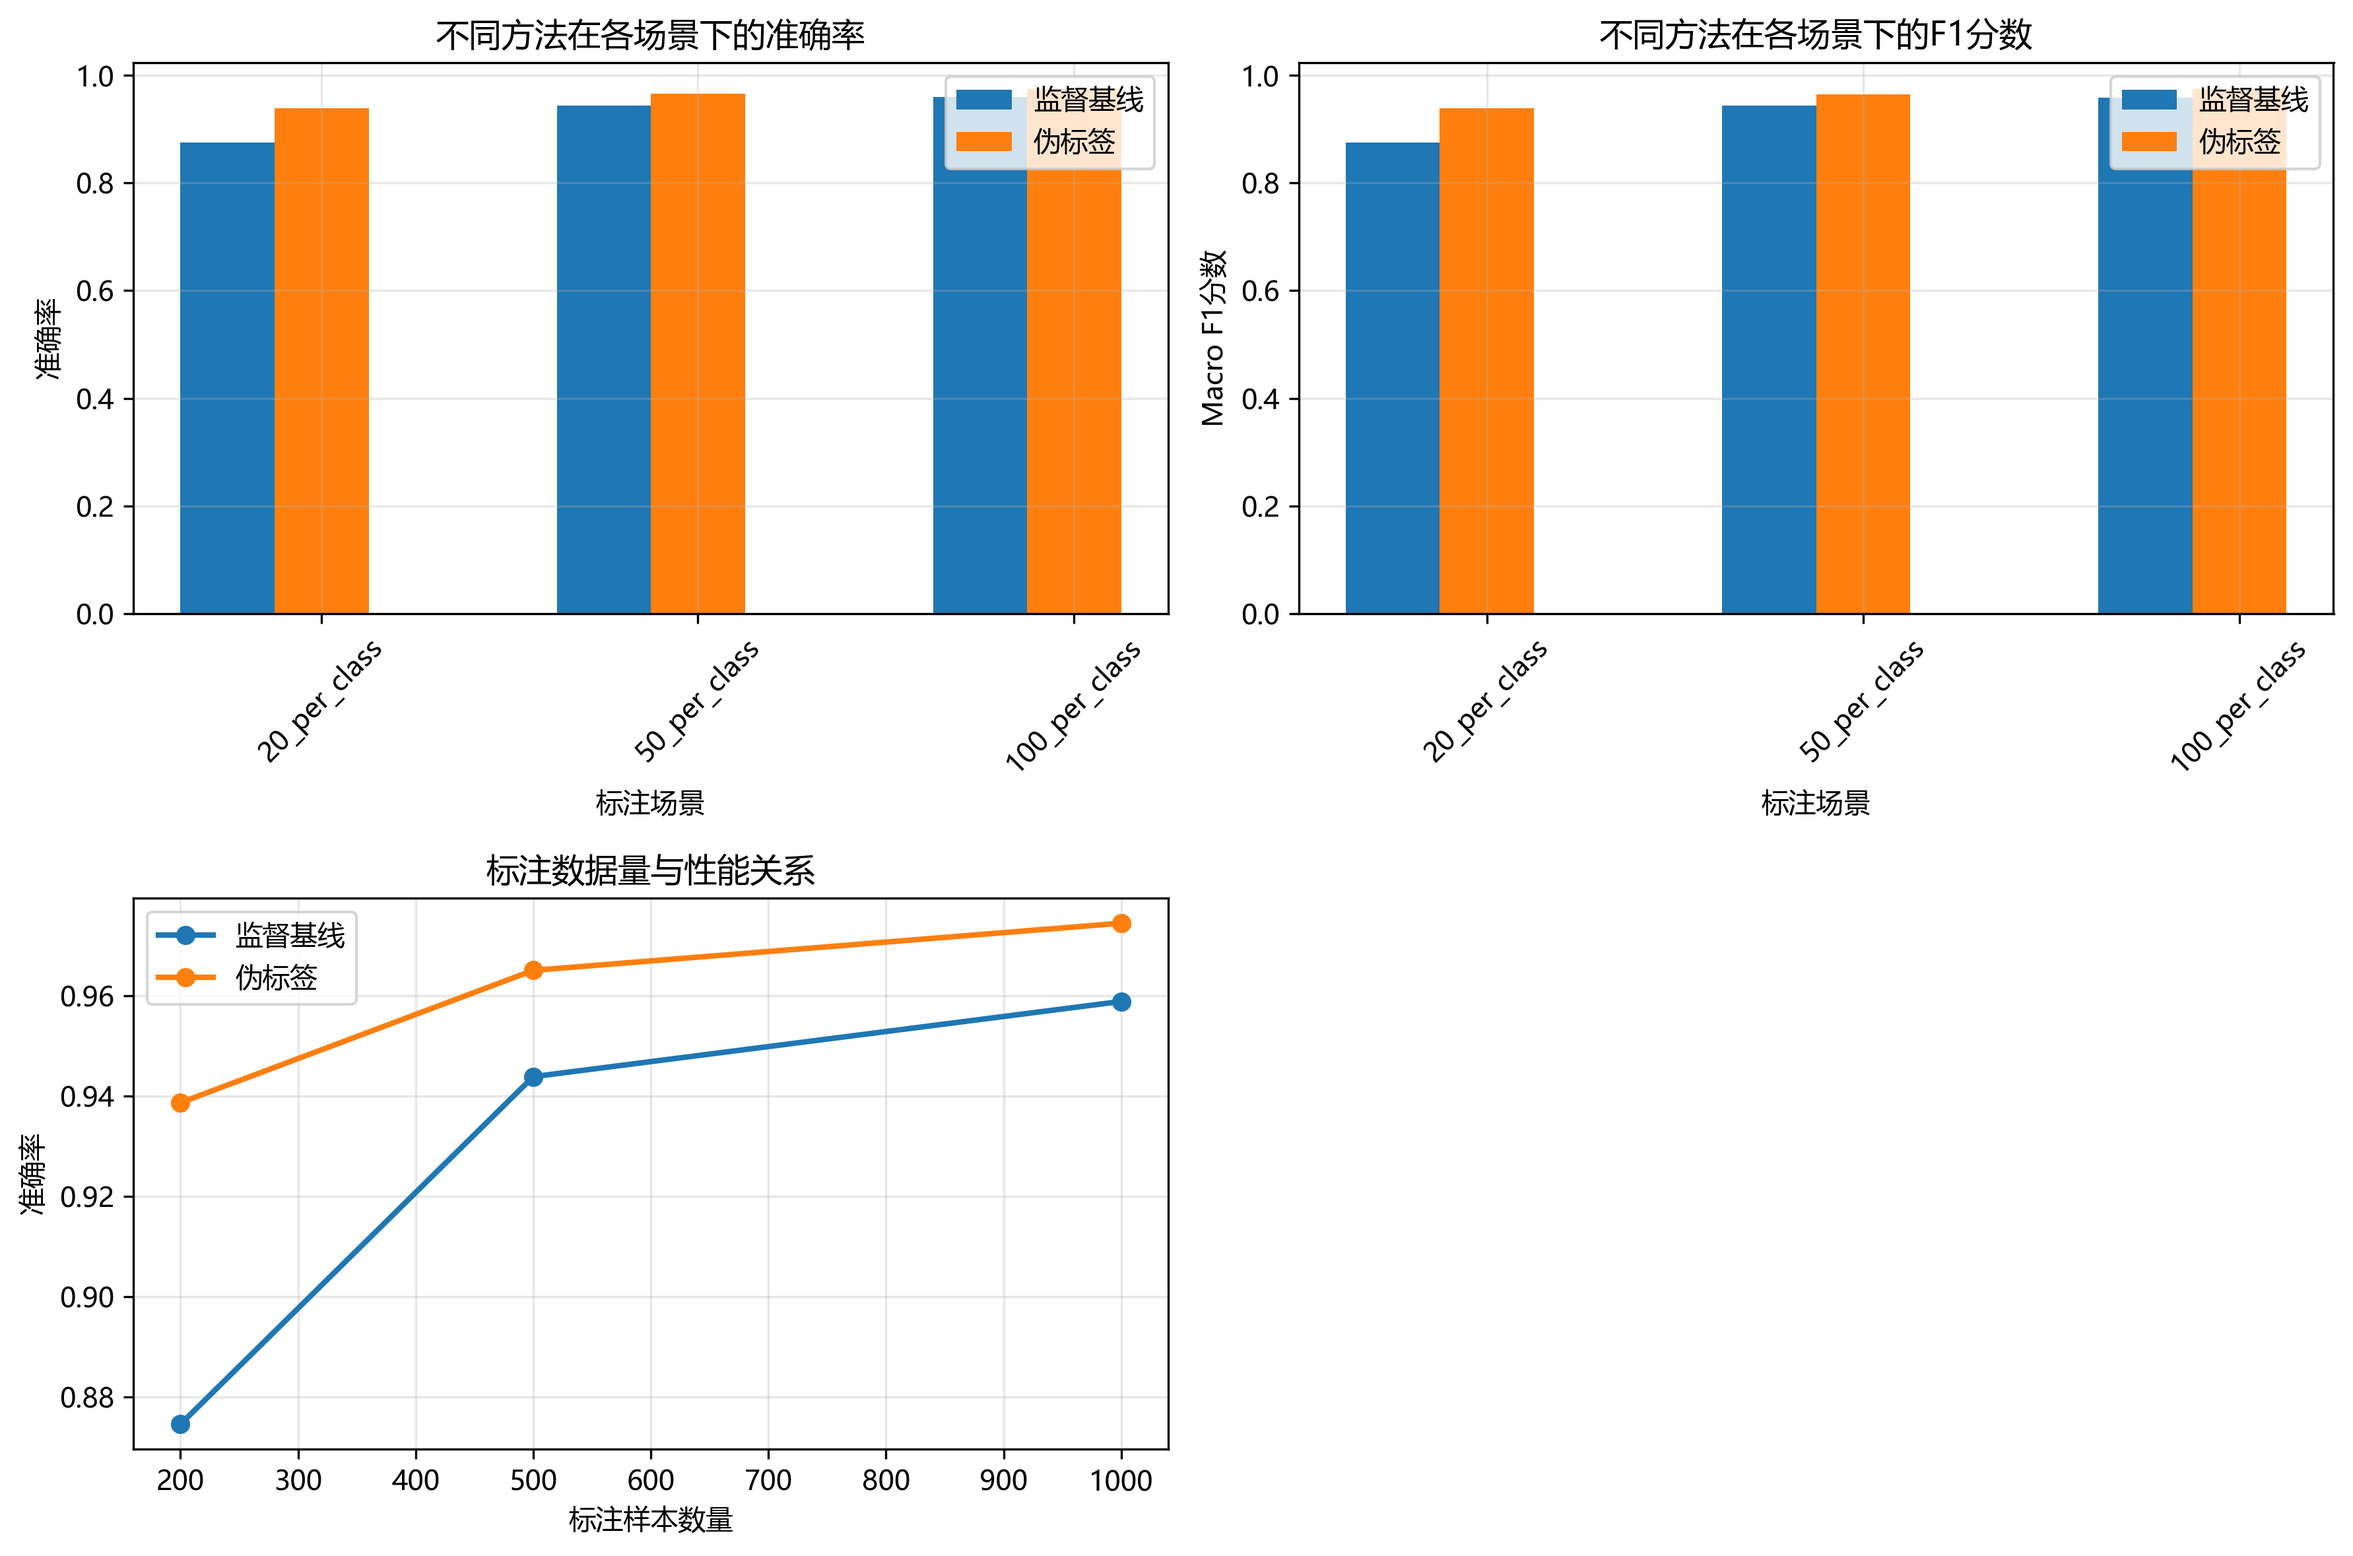
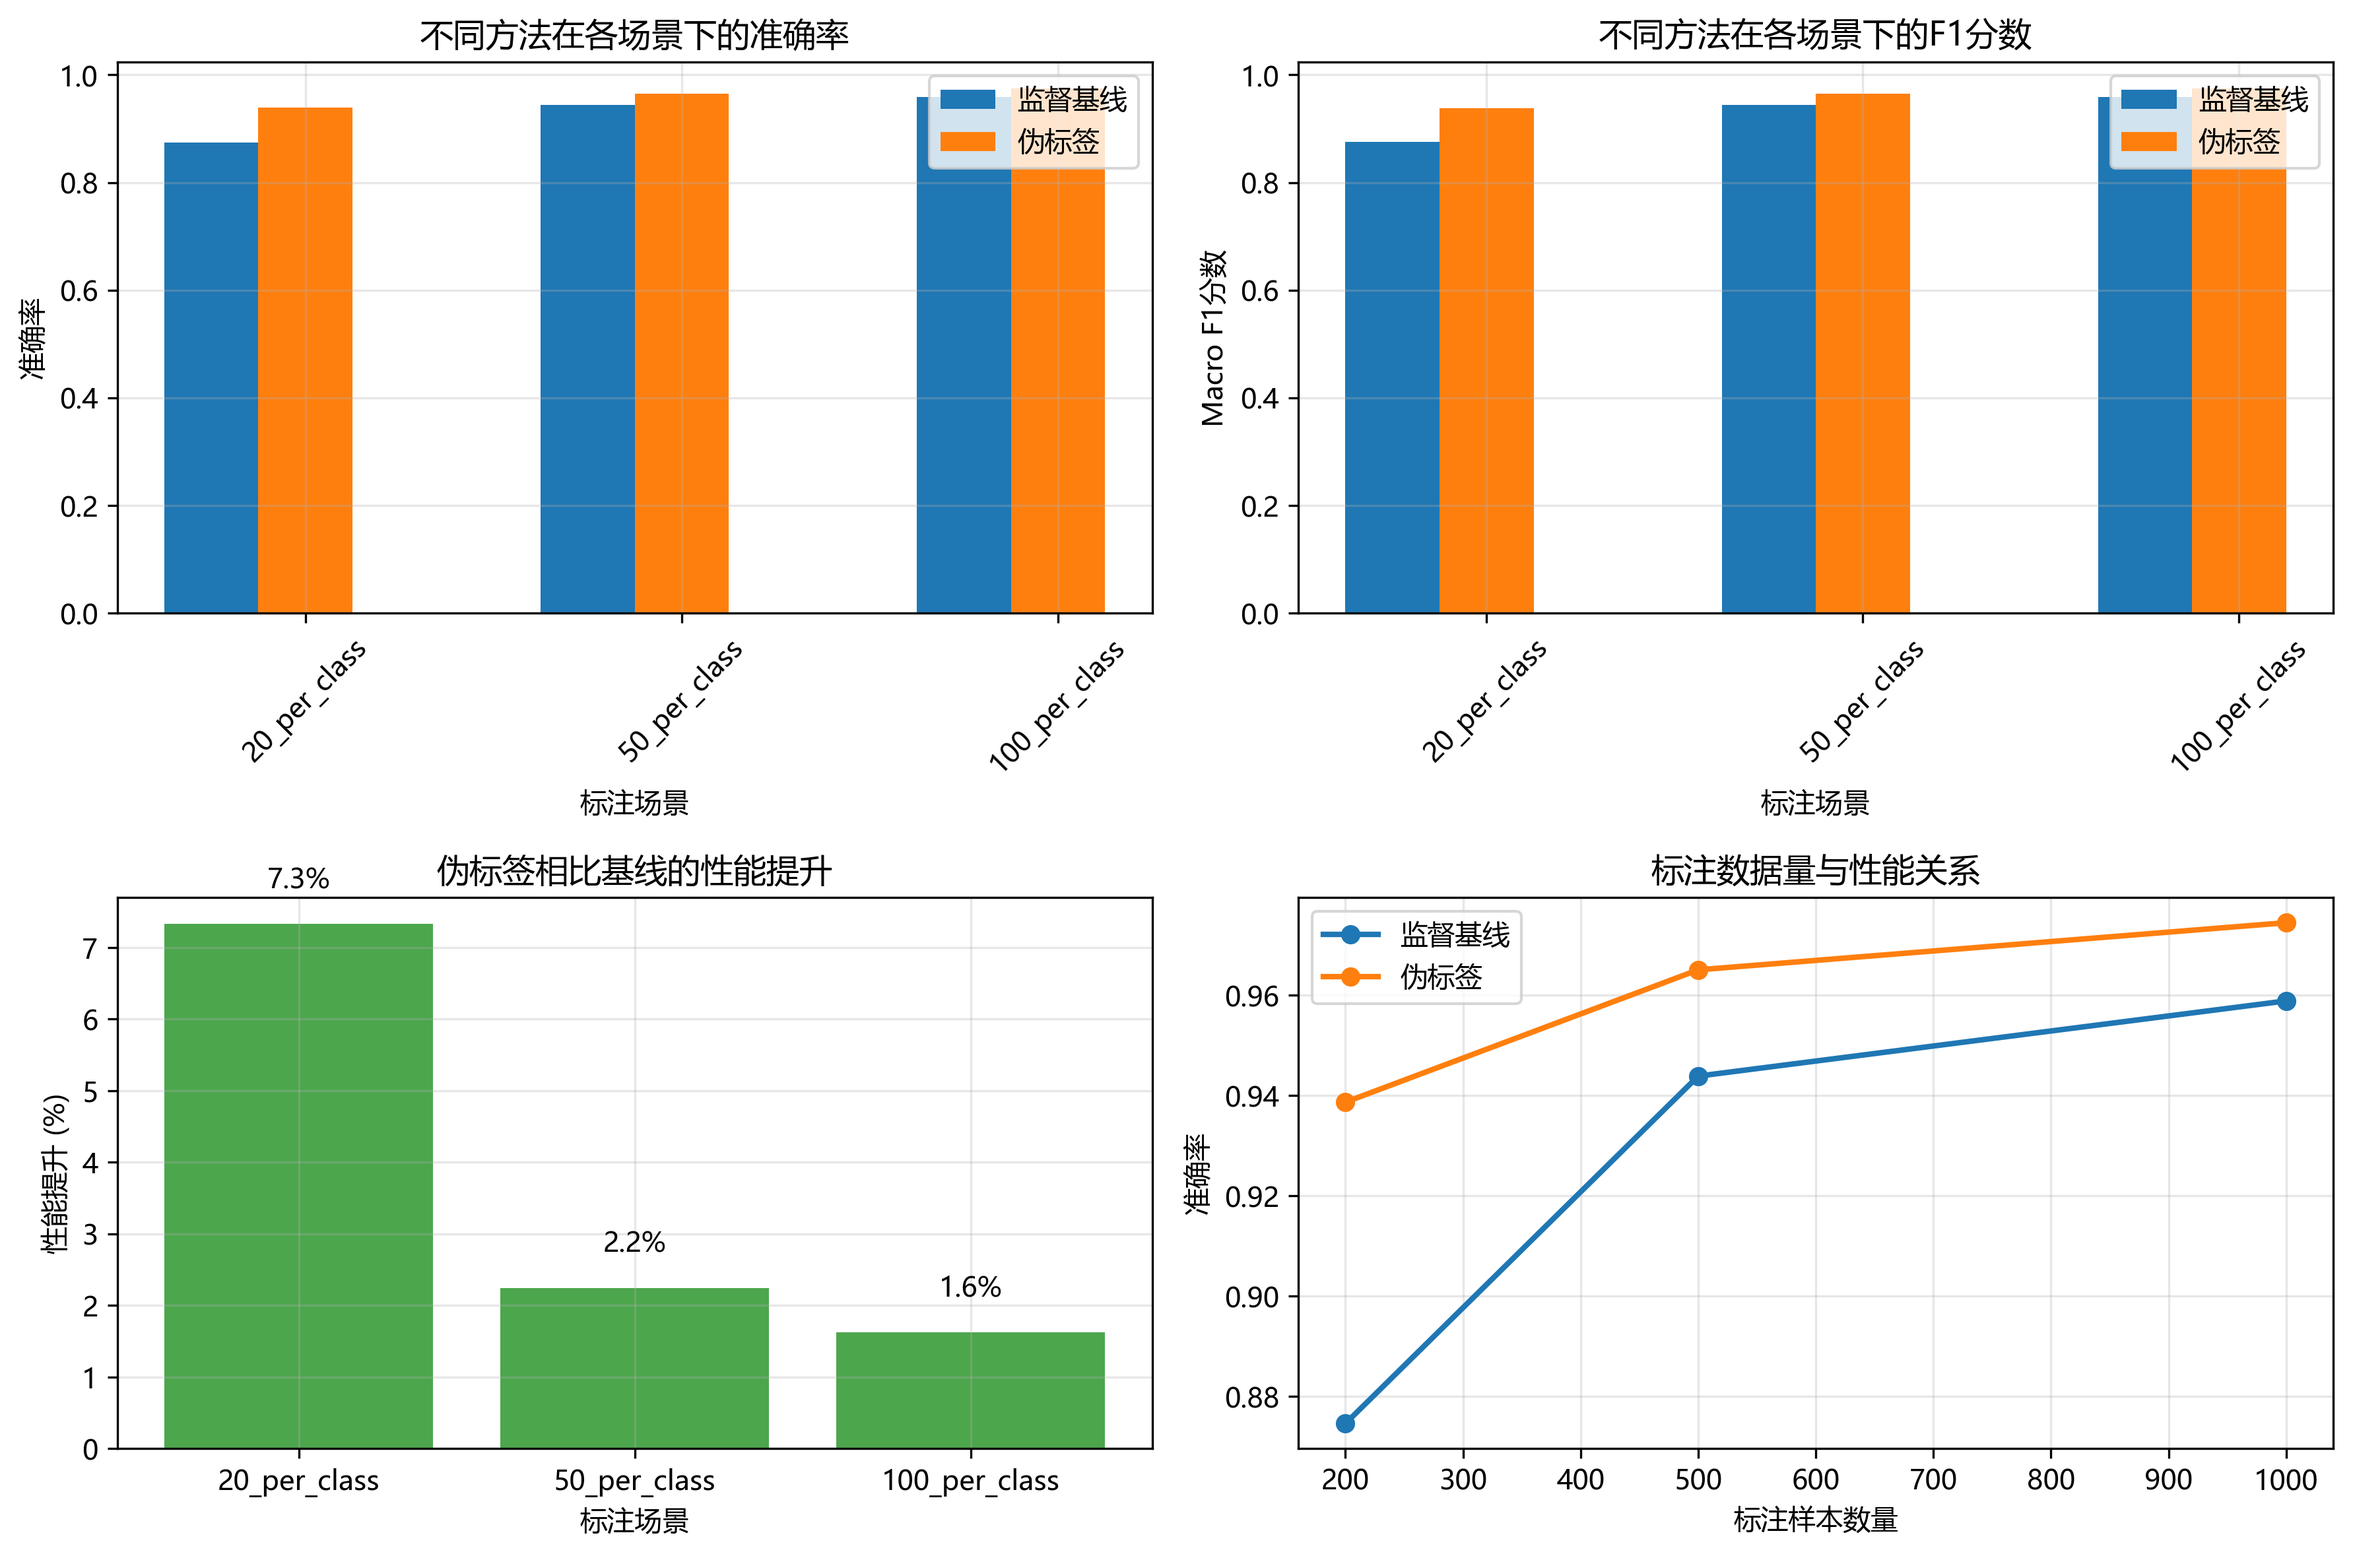
fix some problem

diff --git a/main.py b/main.py
@@ -198,7 +198,7 @@ def visualize_results(results_df):
     
     # 4. 标注样本数量与准确率关系
     
-    plt.subplot(2, 2, 3)
+    plt.subplot(2, 2, 4)
     for method in methods:
         method_data = results_df[results_df['method'] == method]
         if not method_data.empty:
